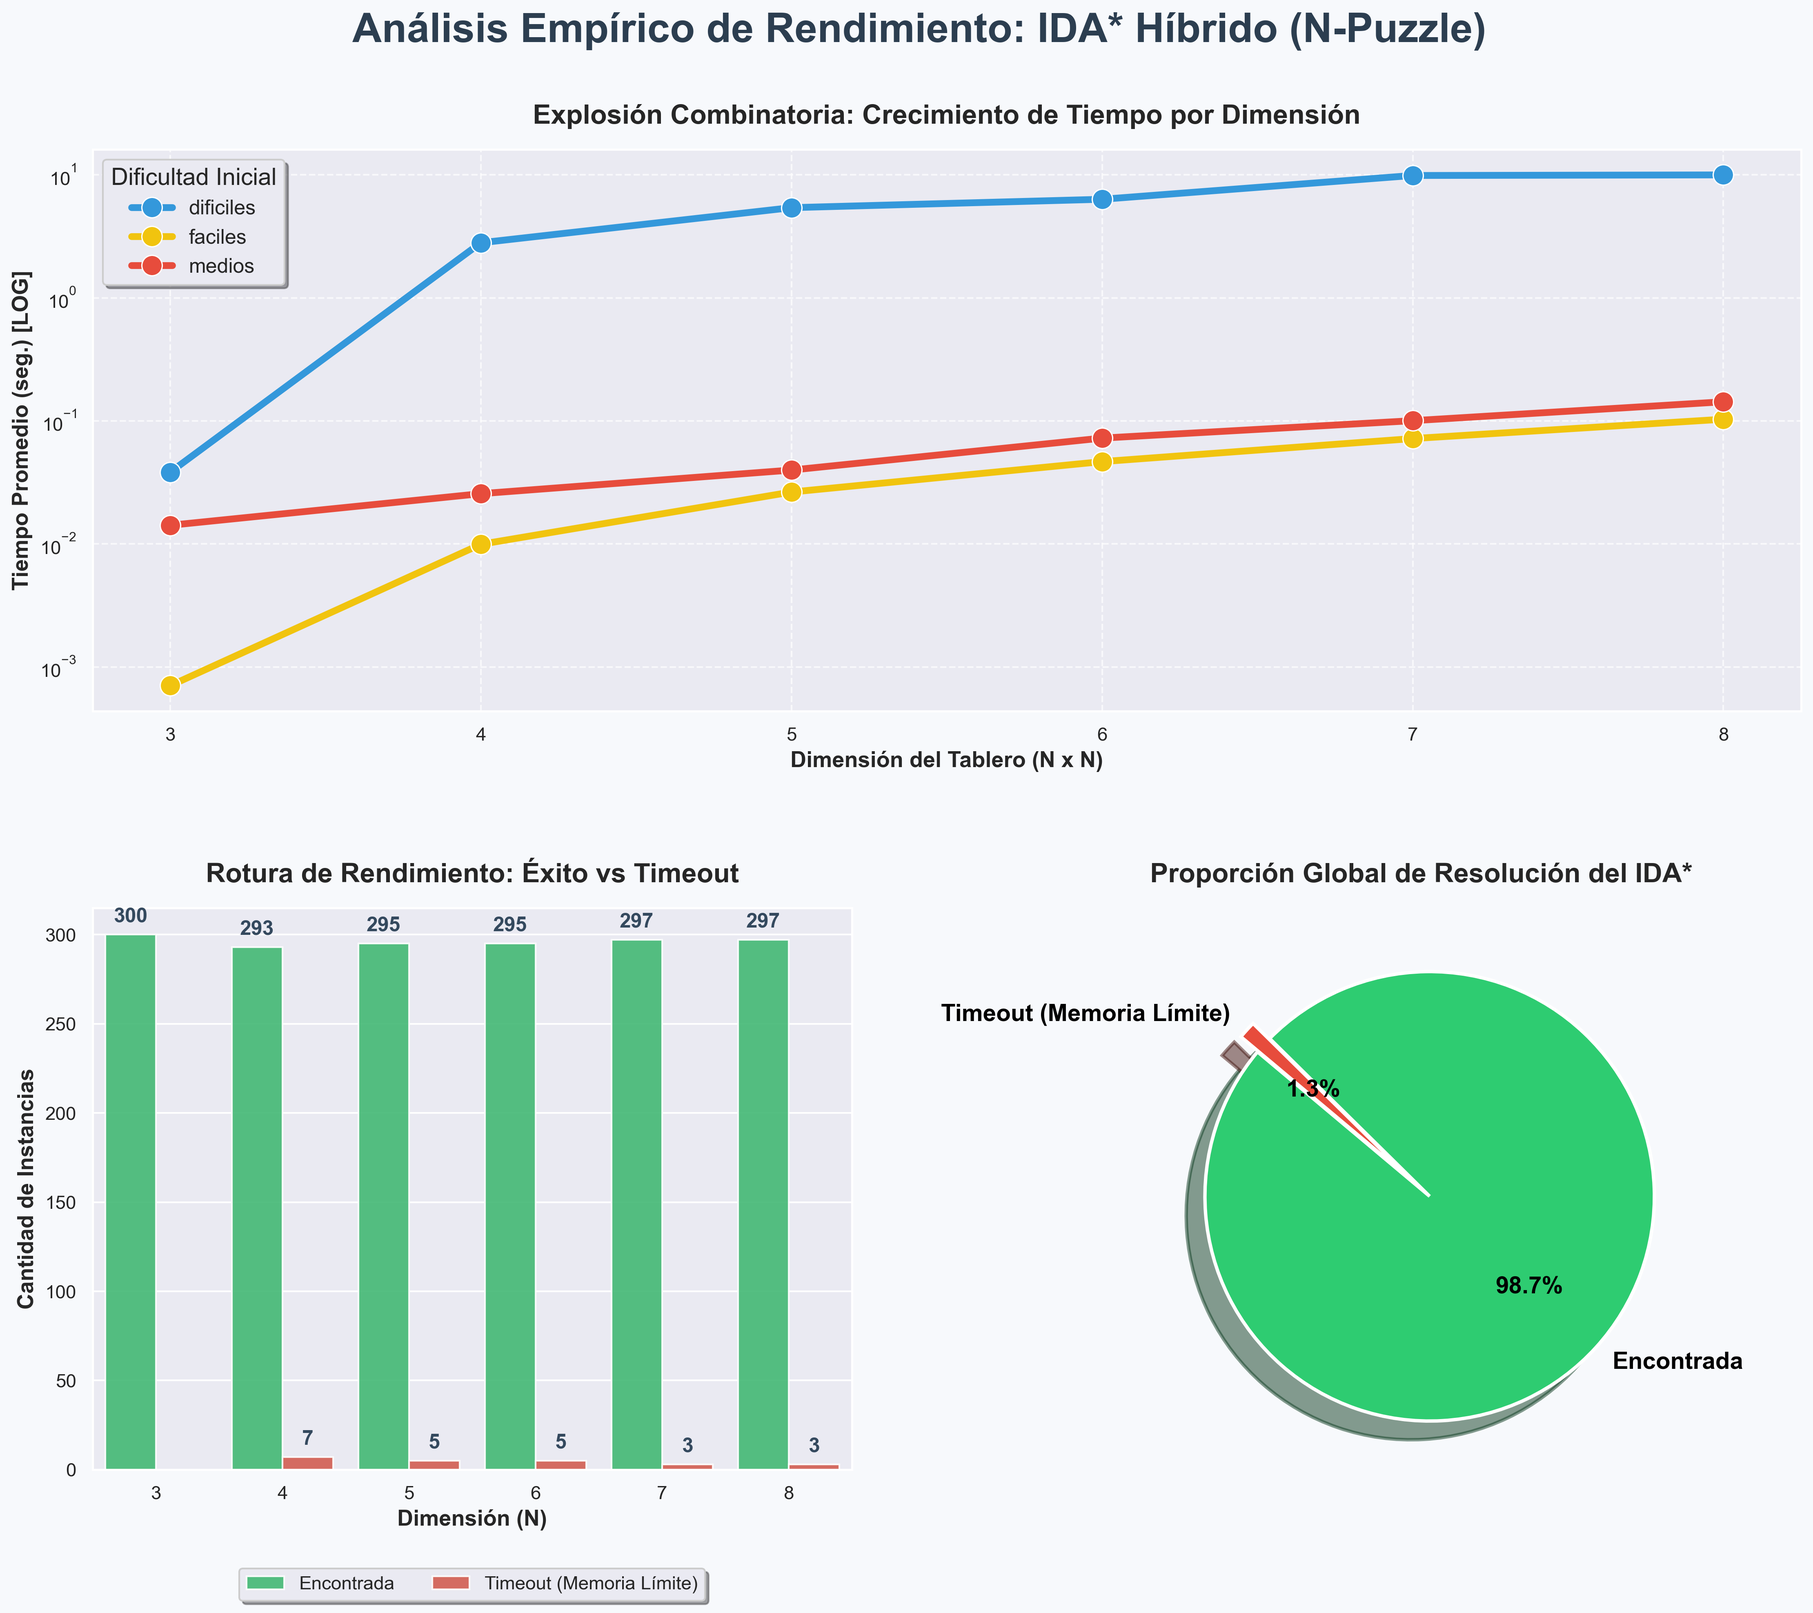
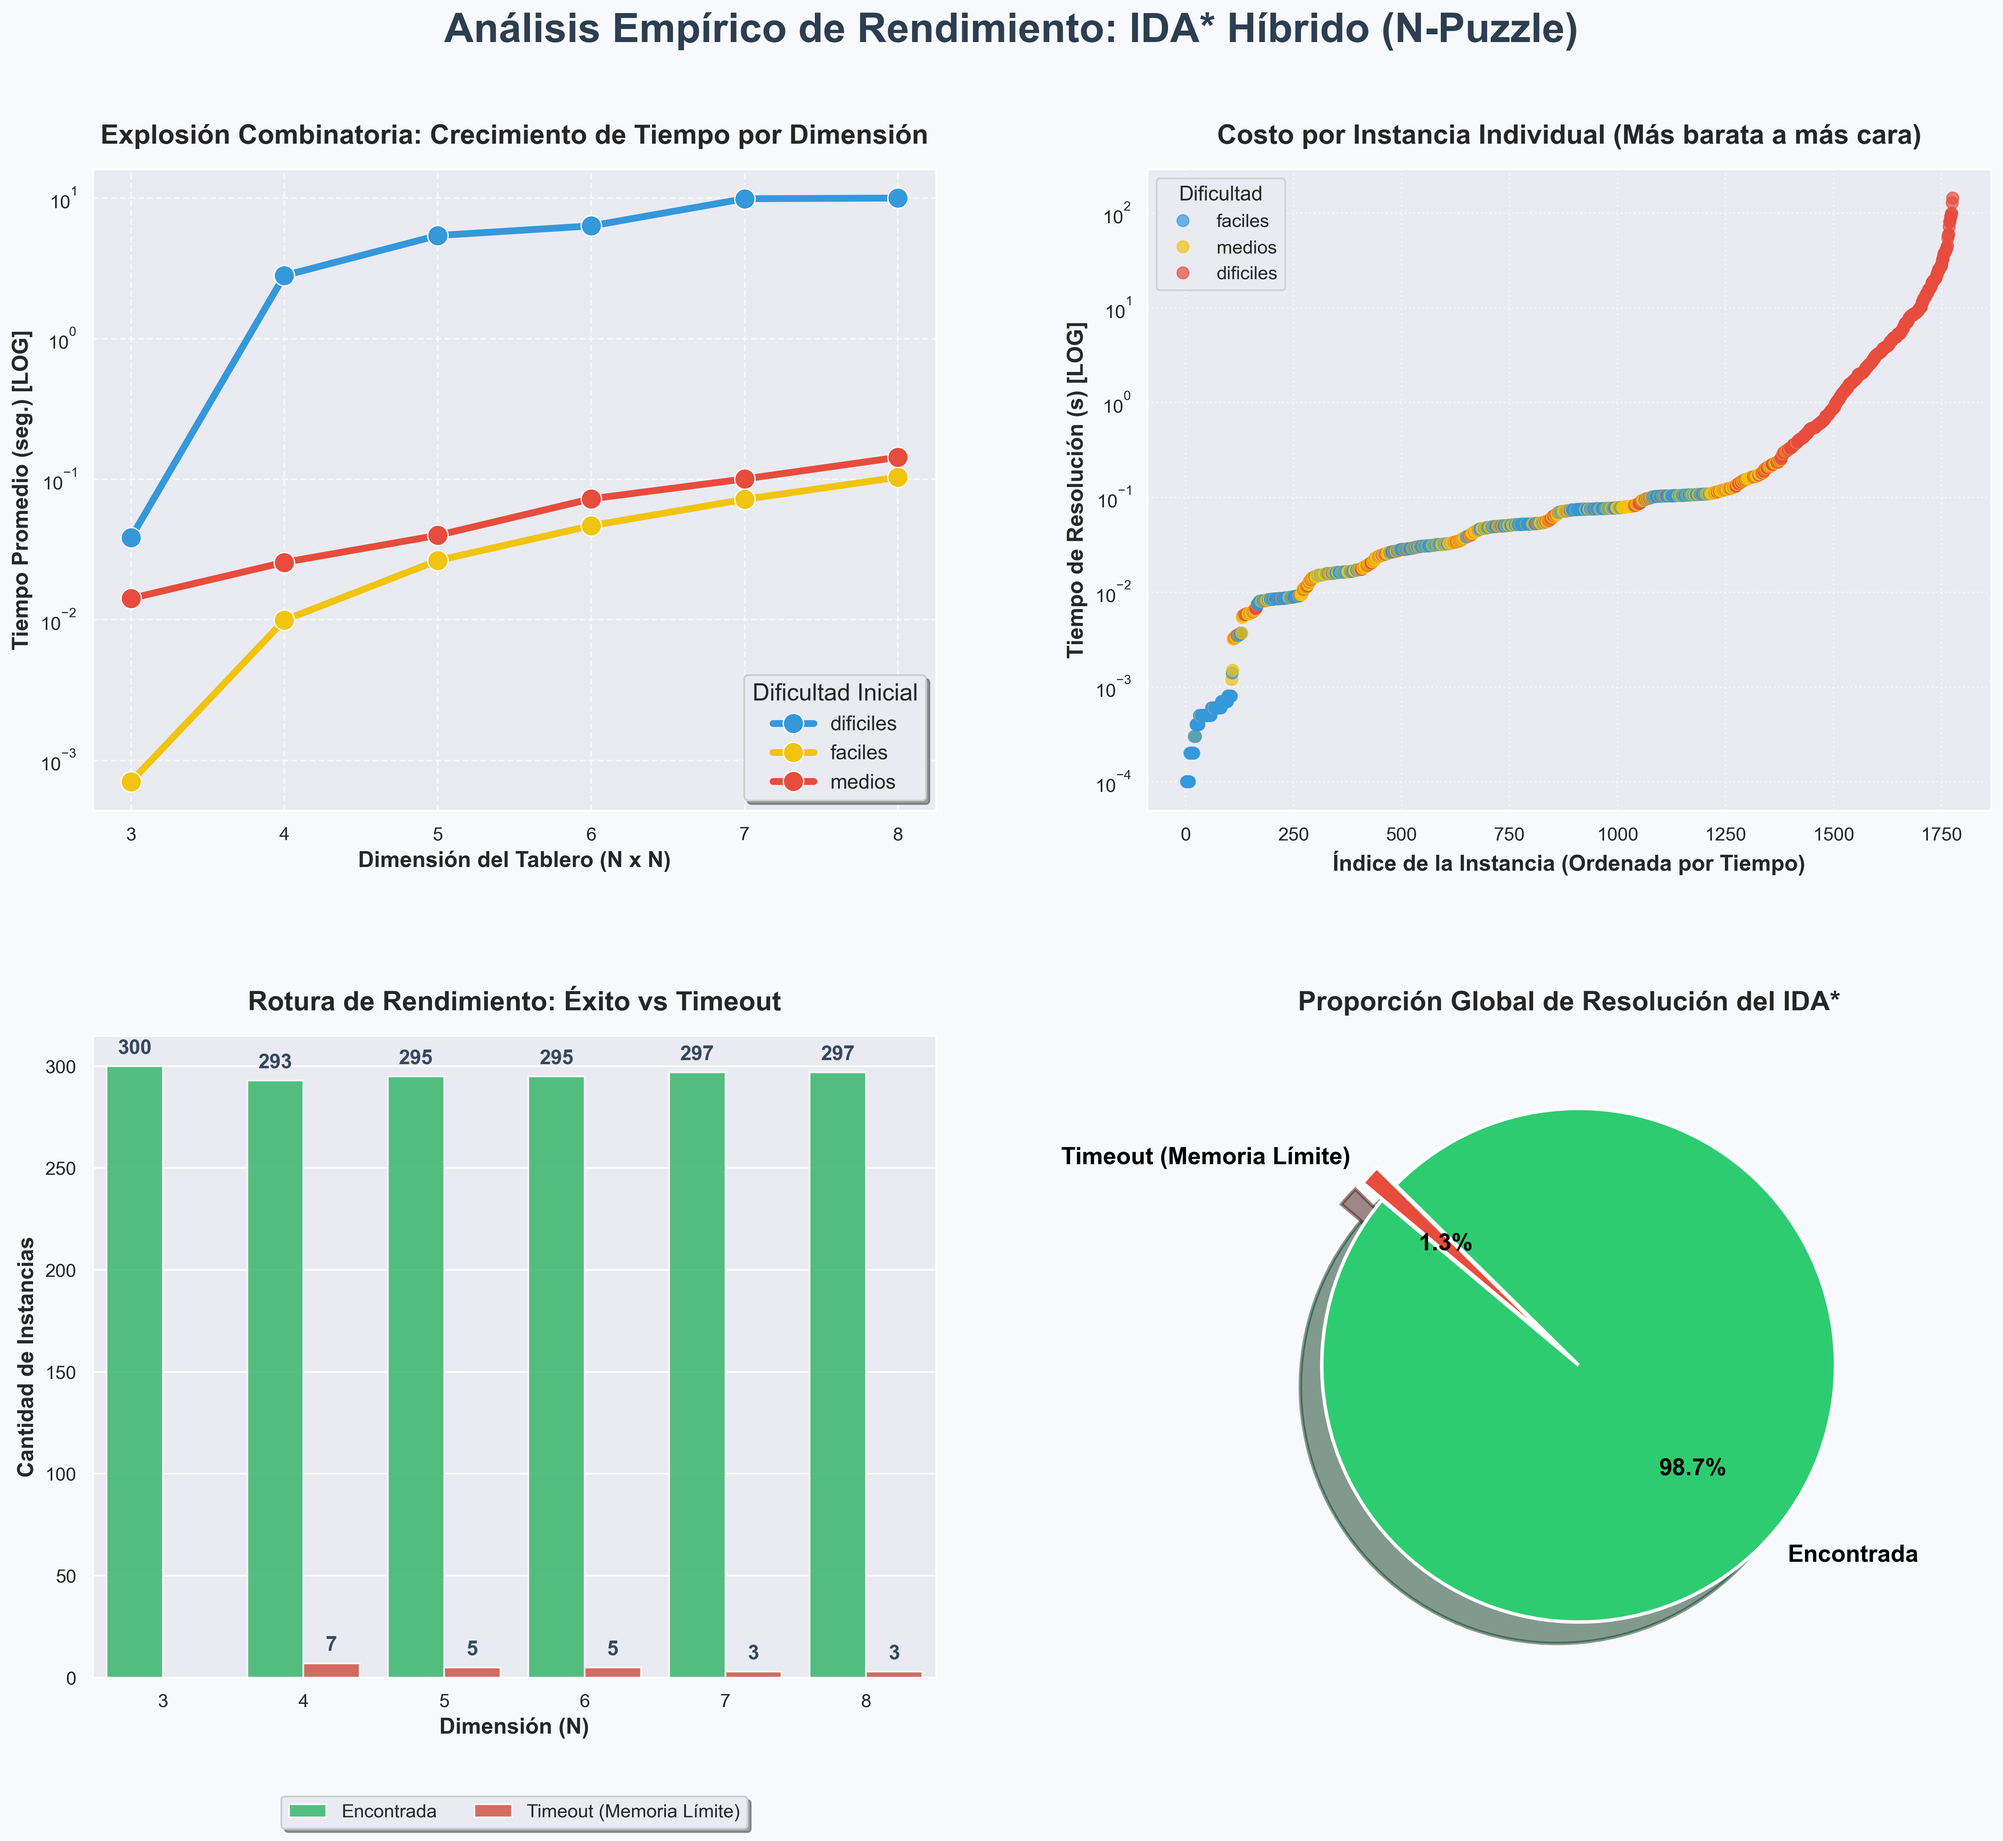
feat: optimización matemática de heurísticas a max() para admisibilidad, traducción a español y gráfica de costo individual

diff --git a/src/heuristics.py b/src/heuristics.py
@@ -3,7 +3,7 @@ Módulo avanzado de heurísticas (Optimizado a índices 1D)
 Multiplica el rendimiento al obviar las matrices 2D.
 """
 
-def get_goal_positions(goal_matrix):
+def get_posiciones_meta(goal_matrix):
     """Retorna posiciones como un único índice plano."""
     pos = {}
     size = len(goal_matrix)
@@ -14,7 +14,7 @@ def get_goal_positions(goal_matrix):
                 pos[val] = r * size + c
     return pos
 
-def h_MD(board_matrix, goal_positions):
+def h_DistanciaManhattan(board_matrix, goal_positions):
     """Distancia Manhattan 1D"""
     dist = 0
     size = int(len(board_matrix)**0.5)
@@ -25,12 +25,12 @@ def h_MD(board_matrix, goal_positions):
             dist += abs(r - gr) + abs(c - gc)
     return dist
 
-def h_LC(board_matrix, goal_positions):
+def h_ConflictoLineal(board_matrix, goal_positions):
     """Conflicto Lineal 1D"""
     conflict = 0
     size = int(len(board_matrix)**0.5)
     
-    # Rows
+    # Filas
     for r in range(size):
         row_tiles = []
         for c in range(size):
@@ -44,7 +44,7 @@ def h_LC(board_matrix, goal_positions):
                 if row_tiles[i][2] > row_tiles[j][2]:
                     conflict += 2
                     
-    # Cols
+    # Columnas
     for c in range(size):
         col_tiles = []
         for r in range(size):
@@ -59,8 +59,8 @@ def h_LC(board_matrix, goal_positions):
                     conflict += 2
     return conflict
 
-def h_WD(board_matrix, goal_positions):
-    """Walking Distance 1D"""
+def h_WalkingDistance(board_matrix, goal_positions):
+    """Distancia Caminando (Walking Distance) 1D"""
     wd_row = 0
     wd_col = 0
     size = int(len(board_matrix)**0.5)
@@ -72,8 +72,8 @@ def h_WD(board_matrix, goal_positions):
             if c != gc: wd_col += 1
     return (wd_row + wd_col) // 2 
 
-def h_CT(board_matrix, goal_positions):
-    """Corner Tiles 1D"""
+def h_CornerTiles(board_matrix, goal_positions):
+    """Fichas en Esquina 1D"""
     penalty = 0
     size = int(len(board_matrix)**0.5)
     
@@ -115,8 +115,8 @@ def h_CT(board_matrix, goal_positions):
                 
     return penalty
 
-def h_LM(board_matrix, goal_positions):
-    """Last Move 1D"""
+def h_LastMove(board_matrix, goal_positions):
+    """Último Movimiento 1D"""
     misplaced = 0
     for i, v in enumerate(board_matrix):
         if v != 0 and v in goal_positions:
@@ -126,10 +126,15 @@ def h_LM(board_matrix, goal_positions):
         return 1
     return 0
 
-def combined_heuristic(board_matrix, goal_positions):
-    md = h_MD(board_matrix, goal_positions)
-    lc = h_LC(board_matrix, goal_positions)
-    wd = h_WD(board_matrix, goal_positions)
-    ct = h_CT(board_matrix, goal_positions)
-    lm = h_LM(board_matrix, goal_positions)
-    return max(md + lc + ct + lm, wd)
+def heuristica_combinada(board_matrix, goal_positions):
+    md = h_DistanciaManhattan(board_matrix, goal_positions)
+    lc = h_ConflictoLineal(board_matrix, goal_positions)
+    wd = h_WalkingDistance(board_matrix, goal_positions)
+    ct = h_CornerTiles(board_matrix, goal_positions)
+    lm = h_LastMove(board_matrix, goal_positions)
+    
+    # MD y LC son matemática y estructuralmente aditivas (seguras).
+    # CT y LM no se pueden sumar libremente sin riesgo de sobreestimar el costo (romper la admisibilidad del IDA*).
+    # WD es un modelo totalmente distinto.
+    # Por lo tanto, extraemos el MÁXIMO de estas tres combinaciones plausibles:
+    return max(md + lc + ct, md + lc + lm, wd)

diff --git a/src/visualizer.py b/src/visualizer.py
@@ -42,15 +42,15 @@ def generate_plots():
     count_df = df.groupby(['n_size', 'Estado']).size().reset_index(name='Cantidad')
 
     # Crear Figura principal (Dashboard 2x2)
-    fig = plt.figure(figsize=(18, 14), facecolor='#f7f9fc')
+    fig = plt.figure(figsize=(20, 16), facecolor='#f7f9fc')
     gs = fig.add_gridspec(2, 2, hspace=0.35, wspace=0.25)
     
     # Titulo General
     fig.suptitle("Análisis Empírico de Rendimiento: IDA* Híbrido (N-Puzzle)", 
                  fontsize=24, fontweight='bold', color='#2c3e50', y=0.96)
 
-    # ----- 1. Gráfica de Líneas: Tamaño vs Tiempo (Arriba, abarca ambas columnas) -----
-    ax1 = fig.add_subplot(gs[0, :])
+    # ----- 1. Gráfica de Líneas: Tamaño vs Tiempo (Arriba, Izquierda) -----
+    ax1 = fig.add_subplot(gs[0, 0])
     if not time_df.empty:
         sns.lineplot(
             data=time_df, x='n_size', y='time_seconds', hue='difficulty',
@@ -106,6 +106,31 @@ def generate_plots():
             wedgeprops={'edgecolor': 'white', 'linewidth': 2}
         )
         ax3.set_title("Proporción Global de Resolución del IDA*", fontsize=16, pad=15)
+
+    # ----- 4. Scatter Plot: Distribución de Tiempos Individuales (Arriba, Derecha) -----
+    ax4 = fig.add_subplot(gs[0, 1])
+    if not df_solved.empty:
+        # Ordenar por tiempo para ver la curva de crecimiento de baratos a caros
+        sorted_times = df_solved.sort_values('time_seconds').reset_index(drop=True)
+        
+        sns.scatterplot(
+            data=sorted_times, x=sorted_times.index, y='time_seconds', 
+            hue='difficulty', palette=['#3498db', '#f1c40f', '#e74c3c'], 
+            alpha=0.7, edgecolor=None, s=50, ax=ax4
+        )
+        
+        ax4.set_title("Costo por Instancia Individual (Más barata a más cara)", fontsize=16, pad=15)
+        ax4.set_xlabel("Índice de la Instancia (Ordenada por Tiempo)", fontsize=13)
+        
+        # Escala logarítmica si la disparidad es enorme
+        if sorted_times['time_seconds'].max() / sorted_times['time_seconds'].replace(0, np.nan).min() > 10:
+             ax4.set_yscale("log")
+             ax4.set_ylabel("Tiempo de Resolución (s) [LOG]", fontsize=13)
+        else:
+             ax4.set_ylabel("Tiempo de Resolución (s)", fontsize=13)
+             
+        ax4.legend(title='Dificultad', fontsize='11', loc='upper left')
+        ax4.grid(True, linestyle=':', alpha=0.6)
 
     # Guardar Dashboard Integrado
     dashboard_path = os.path.join(plots_dir, "resultados_completos_dashboard.png")

diff --git a/src/main.py b/src/main.py
@@ -3,7 +3,7 @@ import os
 import time
 from board_manager import Board
 from ida_star import ida_star
-from heuristics import combined_heuristic, get_goal_positions
+from heuristics import heuristica_combinada, get_posiciones_meta
 from utils import read_instance, save_performance_metrics, write_solution
 
 def solve_single_file(filepath):
@@ -17,14 +17,14 @@ def solve_single_file(filepath):
     n, initial_matrix, goal_matrix = read_instance(filepath)
     initial_board = Board(initial_matrix)
     goal_board = Board(goal_matrix)
-    goal_pos = get_goal_positions(goal_matrix)
+    goal_pos = get_posiciones_meta(goal_matrix)
     
     if not initial_board.is_solvable():
         print("El tablero proporcionado no tiene solución (falla de paridad).")
         return
         
     start_time = time.perf_counter()
-    moves_str, nodes, _ = ida_star(initial_board, goal_board, combined_heuristic, goal_pos)
+    moves_str, nodes, _ = ida_star(initial_board, goal_board, heuristica_combinada, goal_pos)
     end_time = time.perf_counter()
     duration = end_time - start_time
     
@@ -67,7 +67,7 @@ def run_empirical_analysis(base_instances_dir, base_results_dir):
                 
                 n_size, init_m, goal_m = read_instance(filepath)
                 initial_board, goal_board = Board(init_m), Board(goal_m)
-                goal_pos = get_goal_positions(goal_m)
+                goal_pos = get_posiciones_meta(goal_m)
                 
                 start_time = time.perf_counter()
                 
@@ -87,7 +87,7 @@ def run_empirical_analysis(base_instances_dir, base_results_dir):
                     continue
                 
                 # Ejecutar IDA*
-                moves_str, nodes, _ = ida_star(initial_board, goal_board, combined_heuristic, goal_pos)
+                moves_str, nodes, _ = ida_star(initial_board, goal_board, heuristica_combinada, goal_pos)
                 end_time = time.perf_counter()
                 duration = end_time - start_time
                 

diff --git a/README.md b/README.md
@@ -23,13 +23,14 @@ La implementación núcleo se encuentra en `src/ida_star.py`. Cumple con todos l
 
 ### 3. Función de Evaluación y Heurísticas (2 pts)
 El motor de evaluación heurística, implementado en `src/heuristics.py`, opera con arreglos planos (1D) para multiplicar el rendimiento en Python. La función combinada final $f(n) = g(n) + h(n)$ extrae su valor $h(n)$ empleando **más de 3 componentes avanzados**:
-1. **Manhattan Distance (MD):** Distancia geométrica base.
-2. **Linear Conflict (LC):** Penalización prioritaria cuando dos piezas de la misma fila/columna están invertidas.
-3. **Walking Distance (WD):** Un modelo de abstracción basado en flujos de filas y columnas.
-4. **Corner Tiles (CT):** Penalización si una pieza está atrapada en una esquina adyacente a su lugar correcto, pero la esquina está ocupada por un rival.
-5. **Last Move (LM):** Beneficio marginal de reconocimiento cuando solo faltan 2 piezas por acomodar.
+1. **Distancia Manhattan (MD):** Distancia geométrica base.
+2. **Conflicto Lineal (LC):** Penalización prioritaria cuando dos piezas de la misma fila/columna están invertidas.
+3. **Distancia Caminando (Walking Distance - WD):** Un modelo de abstracción basado en flujos de filas y columnas.
+4. **Fichas en Esquinas (Corner Tiles - CT):** Penalización si una pieza está atrapada en una esquina adyacente a su lugar correcto, pero la esquina está ocupada por un rival.
+5. **Último Movimiento (Last Move - LM):** Beneficio marginal de reconocimiento cuando solo faltan 2 piezas por acomodar.
 
-> **Definición de Integración:** La heurística utiliza un modelo restrictivo matemático: `max(md + lc + ct + lm, wd)` para proveer la información más agresiva posible al límite del IDA* sin violar admisibilidad groseramente.
+> **Definición de Integración (Admisibilidad Matemática):** MD y LC son componentes que por definición pueden sumarse libremente ("additive"). Sin embargo, sumar directamente CT y LM al costo puede sobreestimar el valor real (rompiendo la garantía de encontrar el camino óptimo en el algoritmo IDA*).
+> Para solucionar esto estrictamente, la heurística extrae la información más agresiva utilizando de forma segura el máximo entre las configuraciones probables: `max(md + lc + ct, md + lc + lm, wd)`.
 
 ### 4. Implementación en Python (2 pts)
 Todo el sistema está programado en Python 3.
@@ -55,9 +56,11 @@ Para generar y visualizar los resultados exigidos:
 ```bash
 python src/visualizer.py
 ```
-Este script leerá métricas y guardará un archivo `resultados_completos_dashboard.png` provisto en estilos modernos Seaborn/Matplotlib, donde se exponen abiertamente:
-- Aumentos agudos de logaritmo temporal por complejidad de instancias.
-- Estadística explícita de éxito (0% a 100%) vs Memory-Timeouts de protección a causa de la explosión combinatoria.
+Este script leerá métricas y guardará un archivo `resultados_completos_dashboard.png` provisto en estilos modernos Seaborn/Matplotlib en un formato Dashboard (4 Cuadrantes), donde se exponen abiertamente:
+1. **Crecimiento de Tiempo por Dimensión:** Aumentos agudos de logaritmo temporal por complejidad de instancias.
+2. **Costo por Instancia Individual:** Gráfica de dispersión mostrando el tiempo de cada tablero de menor a mayor (más barata a más cara).
+3. **Distribución de Éxito vs Timeout:** Estadística explícita de éxito (0% a 100%) vs cortes de protección de iteraciones IDA* (evitando ciclos infinitos).
+4. **Proporción Global:** Gráfica de pastel global indicando la tasa final de éxito del framework.
 
 ---
 
